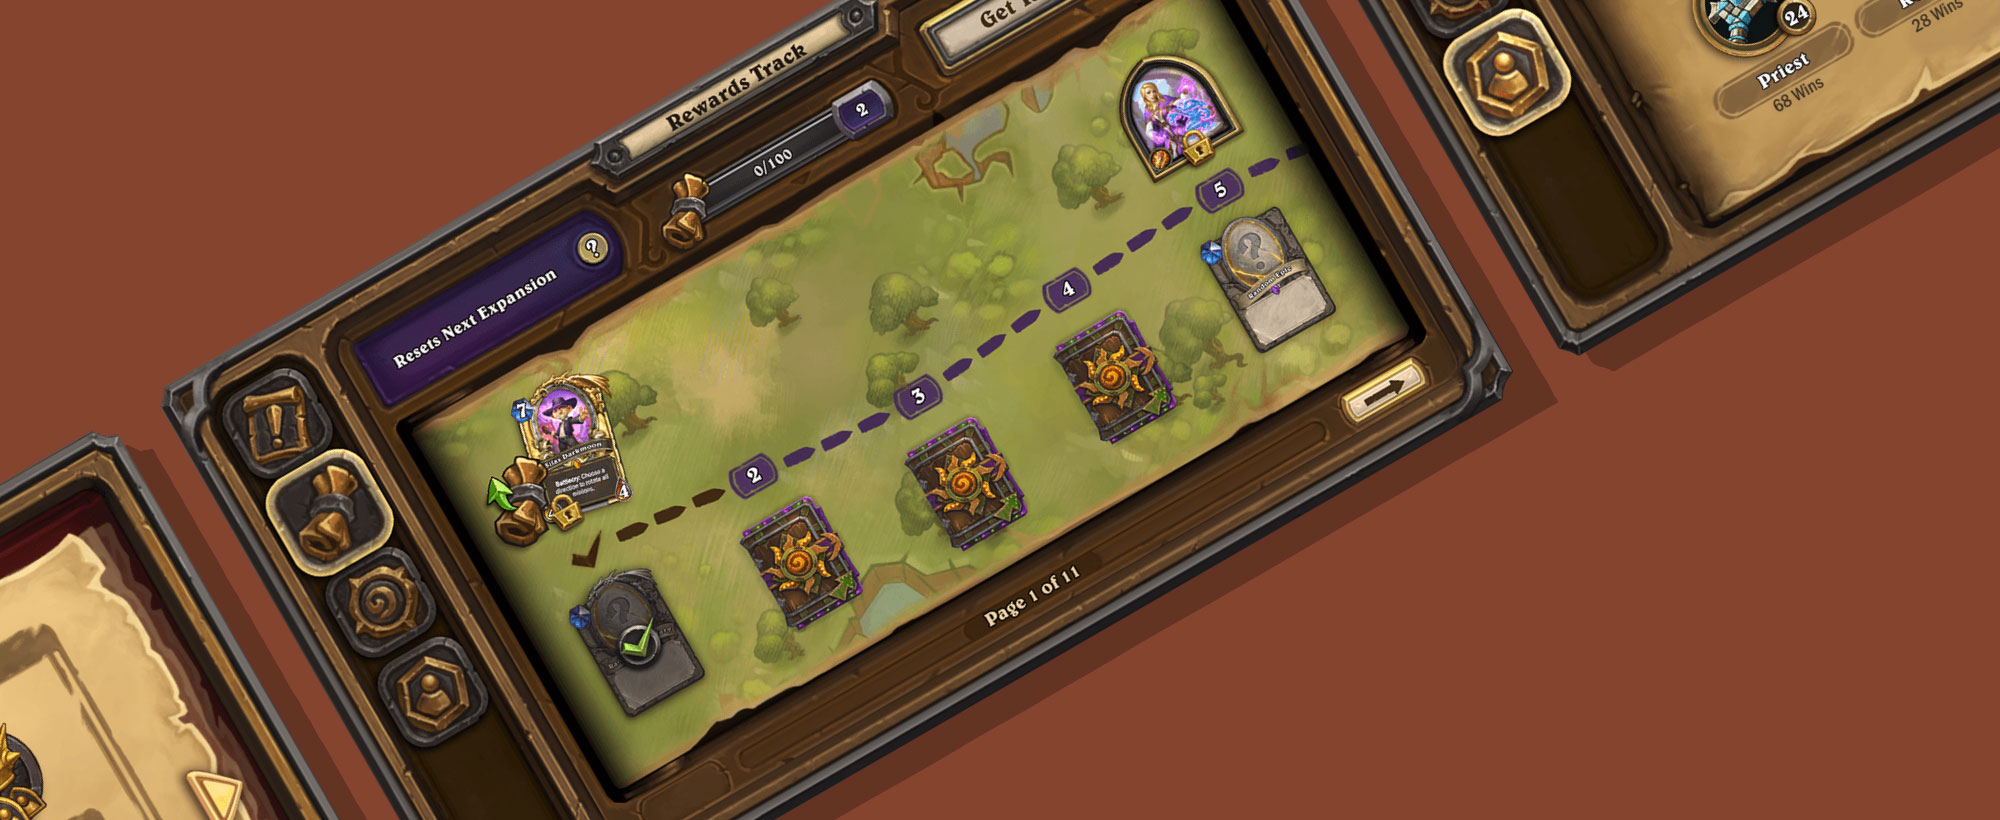
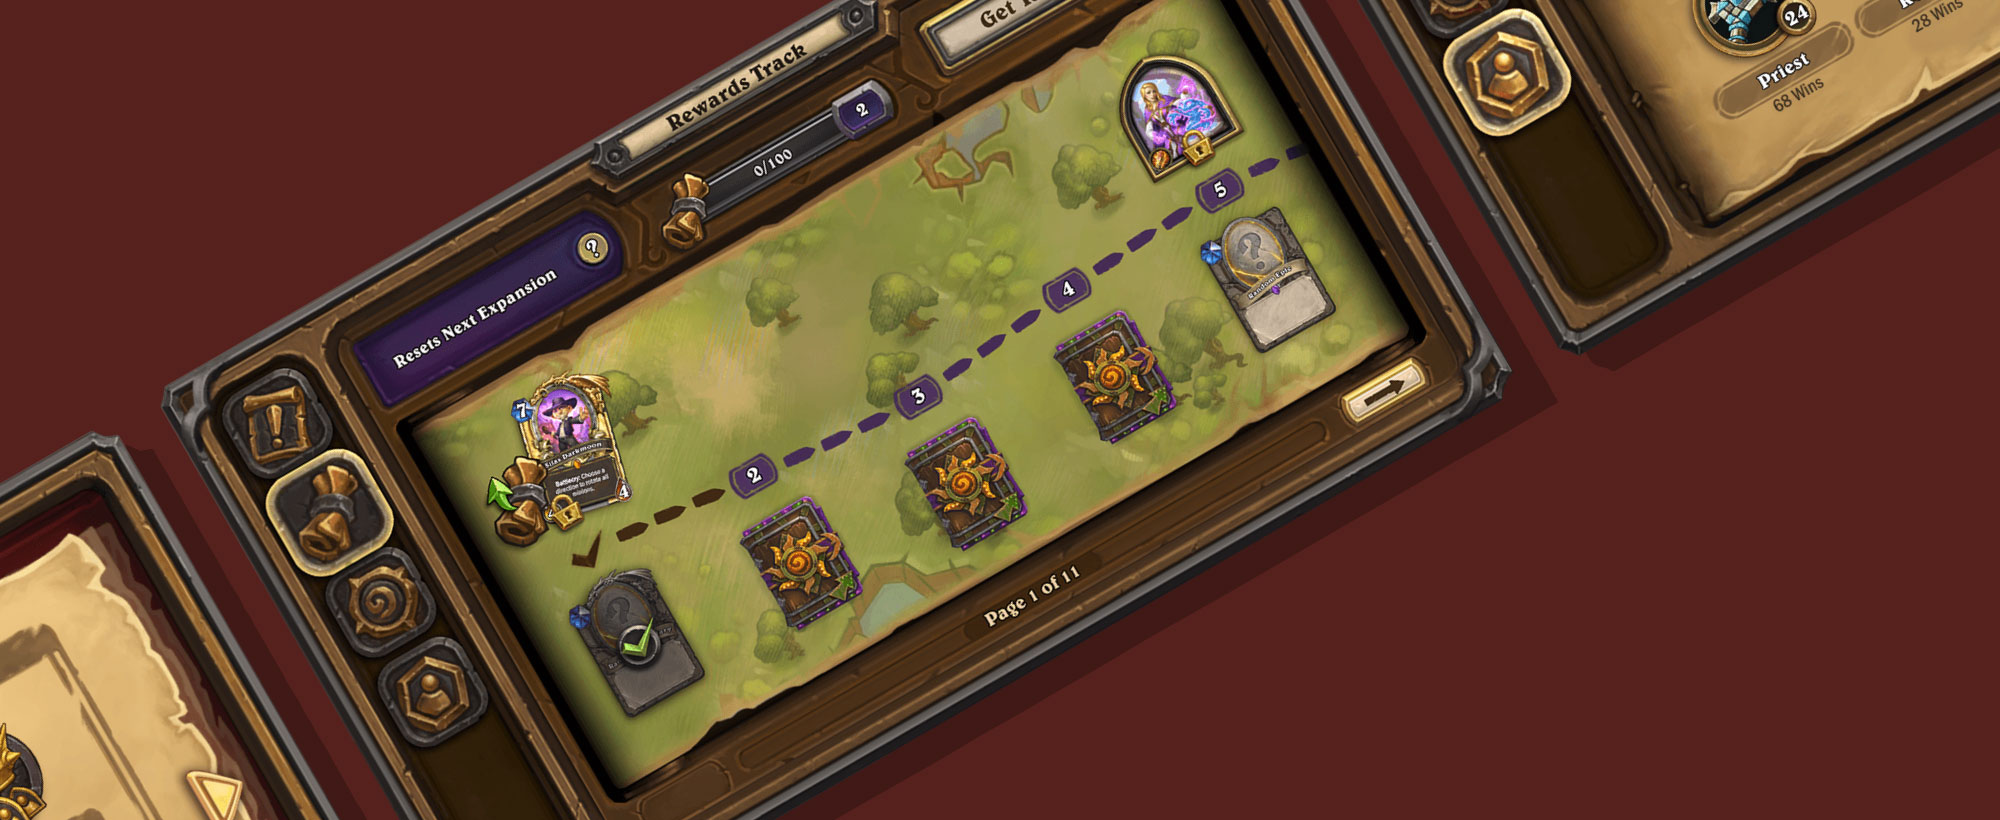
Updated main index

diff --git a/journal.html b/journal.html
@@ -36,7 +36,7 @@
 		<section>
 			<div class="container text">
 				<h1>Overview</h1>
-				<p>Hearthstone is a strategy card game that has been around for several years. Over time the game has introduced new game modes, however players have not been rewarded equally for preferring certain modes over others. The Hearthstone Journal reimagines the old Daily Quest system into a new longer-term player progression system, which includes a battle pass, achievements, revamped quests, and a overhauled profile.</p>
+				<p>Hearthstone is a strategy card game that has been around for several years. Over time the game has introduced new game modes, however players have not been rewarded equally for preferring certain modes over others. The Hearthstone Journal reimagines the old Daily Quest system into a new longer-term player progression system, which includes a <strong>battle pass, achievements, revamped quests, and a overhauled profile</strong>.</p>
 				<img class="overview" src="images/hsj/screen0.jpg" alt="Journal Screens" />
 				<div class="download">
 					<a class="left" href="https://play.google.com/store/apps/details?id=com.blizzard.wtcg.hearthstone&hl=en_US&gl=US"><img alt="Get it on Google Play" src="images/googleplaystore.svg" /></a>
@@ -61,13 +61,13 @@
 		<section class="colorBG">
 			<div class="container text clearBot">
 				<h1 class="center">A Closer Look at the Visual Metaphors</h1>
-				<p class="center">Hearthstone UI is known for its skeuomorphic visual style, thus every screen bears resemblance to physical objects. The Rewards Track is themed to look like a map scroll on wooden roll holders.</p>
+				<p class="center">Hearthstone UI is known for its skeuomorphic visual style, thus every screen bears resemblance to physical objects. The Rewards Track is themed to look like a <strong>map scroll on wooden roll holders</strong>.</p>
 			</div>
 			<div class="partialContainer clearBot">
 				<img class="shadow" src="images/hsj/screen1.png" alt="Rewards Track Screen at Level 21" />
 			</div>
 			<div class="container text topSpace clearBot">
-				<p class="center">The Profile is reminiscent of a book bound with string.</p>
+				<p class="center">The Profile is reminiscent of a <strong>book bound with string</strong>.</p>
 			</div>
 			<div class="partialContainer clearBot">
 				<img class="shadow" src="images/hsj/screen2.png" alt="Profile Page 1 Showing Overview of Player's Game Stats" />
@@ -89,15 +89,15 @@
 			<div class="container text">
 				<h5>Design Process</h5>
 				<h1 class="flushTop">A Scalable Battle Pass</h1>
-				<p>The Rewards Track needed a robust design to handle changes over time elegantly. It needed to show the player a variable amount of rewards that would reset every expansion (~4 months). It also needed to support a paid side and a free side, which meant a large amount of rewards had to be communicated to the player at once.</p>
+				<p>The Rewards Track needed a robust design to handle changes over time elegantly. It needed to show the player a <strong>variable amount of rewards</strong> that would reset every expansion (~4 months). It also needed to support a paid side and a free side, which meant a <strong>large amount of rewards</strong> had to be communicated to the player at once.</p>
 				<hr />
 				<h2>Choosing a Navigational Pattern</h2>
-				<p>We evaluated a few navigational patterns before landing on our final direction. Many competitor battle passes use horizontal scrollbars to navigate through the track. While horizontal scrolling feels great on mobile, it can be a terrible experience on desktop if a player does not use a traditional mousewheel. Players who used laptop mouse pads and drawing tablets for their preferred input devices struggled to navigate with a horizontal scrollbar. With this consideration in mind, we opted for a paged navigation to prioritize cross-platform consistency, usability, and accessibility.</p>	
+				<p>We evaluated a few navigational patterns before landing on our final direction. Many competitor battle passes use horizontal scrollbars to navigate through the track. While horizontal scrolling feels great on mobile, it can be a terrible experience on desktop if a player does not use a traditional mousewheel. Players who used <strong>laptop mouse pads and drawing tablets for their preferred input devices struggled to navigate with a horizontal scrollbar</strong>. With this consideration in mind, we opted for a paged navigation to prioritize cross-platform consistency, usability, and accessibility.</p>	
 				<h5 class="center noTitle">Final Paged Navigation</h5>
 				<img src="images/hsj/diagram1.jpg" alt="Final Paged Navigation" />				
 				<hr />
 				<h2>REDUCING VISUAL OVERLOAD</h2>
-				<p>I created wireframes that explored different amounts of reward nodes on a single page. Early iterations prioritized displaying as many rewards as possible on a single page. The philosophy behind this was to reduce the amount of pages a player would have to click through. However, the higher node count made the track feel overwhelming and individual rewards did not stand out. We then switched to 5 nodes per page, and established a pattern where every 5th node would generally have a special paid reward. This created smaller milestones for players to work toward, without burdening them with too much content.</p>	
+				<p>I created wireframes that explored different amounts of reward nodes on a single page. Early iterations prioritized displaying as many rewards as possible on a single page. The philosophy behind this was to reduce the amount of pages a player would have to click through. <strong>However, the higher node count made the track feel overwhelming and individual rewards did not stand out</strong>. We then switched to 5 nodes per page, and established a pattern where every 5th node would generally have a special paid reward. This created smaller milestones for players to work toward, without burdening them with too much content.</p>	
 				<h5 class="center noTitle">Fewer Nodes Per Page</h5>
 				<img src="images/hsj/diagram2.png" alt="More Nodes to Fewer" />
 			</div>

diff --git a/index.html b/index.html
@@ -93,6 +93,14 @@
 				<h1>My Works</h1>
 				<div class="works">
 
+					<a class="col journal hvr-sweep-to-top" href="/journal">
+						<img src="images/thumb_hsj.jpg" alt="Thumbnail of Hearthstone Journal" />
+						<div class="caption">
+							<h3>Hearthstone Journal</h3>
+							<h4>Desktop/Mobile Game</h4>
+						</div>
+					</a>
+
 					<a class="col shadowlands hvr-sweep-to-top" href="/shadowlands">
 						<img src="images/thumb_shadowlands.jpg" />
 						<div class="caption">
@@ -109,14 +117,6 @@
 						</div>
 					</a>
 					
-					<a class="col pixi hvr-sweep-to-top" href="/pixi">
-						<img src="images/thumb_pixi.jpg" alt="Thumbnail of Pixi" />
-						<div class="caption">
-							<h3>Pixi</h3>
-							<h4>Mobile Game</h4>
-						</div>
-					</a>
-					
 					<div class="clear"></div>
 				</div>
 				<div class="works">
@@ -129,19 +129,20 @@
 						</div>
 					</a>
 
+										
+					<a class="col pixi hvr-sweep-to-top" href="/pixi">
+						<img src="images/thumb_pixi.jpg" alt="Thumbnail of Pixi" />
+						<div class="caption">
+							<h3>Pixi</h3>
+							<h4>Mobile Game</h4>
+						</div>
+					</a>
+
 					<a class="col louvre hvr-sweep-to-top" href="/louvre">
 						<img src="images/thumb_louvre.jpg" alt="Thumbnail of Louvre Odeum" />
 						<div class="caption">
 							<h3>Louvre Odeum</h3>
 							<h4>Mobile App Proposal</h4>
-						</div>
-					</a>
-					
-					<a class="col natgeo hvr-sweep-to-top" href="/natgeo">
-						<img src="images/thumb_natgeo.jpg" alt="Thumbnail of Nat Geo Take Action" />
-						<div class="caption">
-							<h3>Nat Geo Take Action</h3>
-							<h4>Web Platform Proposal</h4>
 						</div>
 					</a>
 
@@ -156,7 +157,7 @@
 			<div class="contents">
 				<a class="absTop" name="contact"></a>
 				<h1>Let's Chat</h1>
-				<p class="center"> I have worked for Blizzard Entertainment, Roadhouse Interactive, &amp; Loud Crow Interactive. Get in touch with me if you like what I do. </p>
+				<p class="center"> I have 7 years of video game industry experience, working for Blizzard Entertainment, Roadhouse Interactive, &amp; Loud Crow Interactive. Get in touch with me if you like what I do. </p>
 				
 				<p class="center"> You can reach me directly via <a target="_blank" href="mailto:hasiba.arshad@gmail.com">email</a> or <a class="col4" target="_blank" href="http://ca.linkedin.com/pub/hasiba-arshad/2b/a78/238/">LinkedIn.</a></p>
 				<div class="center"><a target="_blank" href="resume.pdf">Download CV/Resume</a></div>

diff --git a/css/projects.css b/css/projects.css
@@ -1556,6 +1556,11 @@ section.lightBG {
 	width:500px;
 	right:8%;
 }
+#hgc h2 {
+	-webkit-hyphens: manual;
+	-ms-hyphens: manual;
+	hyphens: manual;
+}
 
 #hgc .logoBox img {
 	margin: 0 auto;
@@ -1739,6 +1744,11 @@ section.lightBG {
 }
 
 @media only screen and (max-width: 600px) {
+	#hgc .header .logoBox img {
+		width:100%;
+		max-width:150px;
+	}
+	
 	#hgc .logoBox > p {
 		width:90%;
 		margin:30px auto;
@@ -1746,6 +1756,11 @@ section.lightBG {
 	#hgc .header .logoBox h1 {
 		text-align:center;
 		margin-left:0;
+		line-height:110%;
+
+	}
+	#hgc .header .logoBox h2 {
+		font-size:20px;
 	}
 	
 	#hgc  h1 {
@@ -2313,7 +2328,7 @@ section.lightBG {
 *****************************************/
 
 #hsj .colorBG, #hsj .loader {
-	background-color:#85442F;
+	background-color:#56211d;
 }
 
 #hsj .header .logoBox {
@@ -2364,7 +2379,7 @@ section.lightBG {
 }
 
 #hsj h1 {
-	color:#85442F;
+	color:#56211d;
 	font-size:40px;
 	font-weight:500;
 	margin:0;
@@ -2374,7 +2389,7 @@ section.lightBG {
 }
 
 #hsj .emph {
-	color:#85442F;
+	color:#56211d;
 }
 
 #hsj .colorBG h1{
@@ -2451,7 +2466,7 @@ section.lightBG {
 		bottom:0;
 		margin-top:50px;
 		padding:50px;
-		background-color:#85442F;
+		background-color:#56211d;
 	}	
 	
 	#hsj .header .logoBox img {

diff --git a/hgc.html b/hgc.html
@@ -28,7 +28,7 @@
 			<div class="logoBox center">
 				<img src="images/hgc/logo.png" alt="HGC Logo" />
 				<h1>Heroes of the Storm</h1>
-				<h2>Global Championship</h2>
+				<h2>Global Champ&shy;ionship</h2>
 				<p>Engaging Heroes fans with a world class esports experience on the web</p>
 			</div>
 
